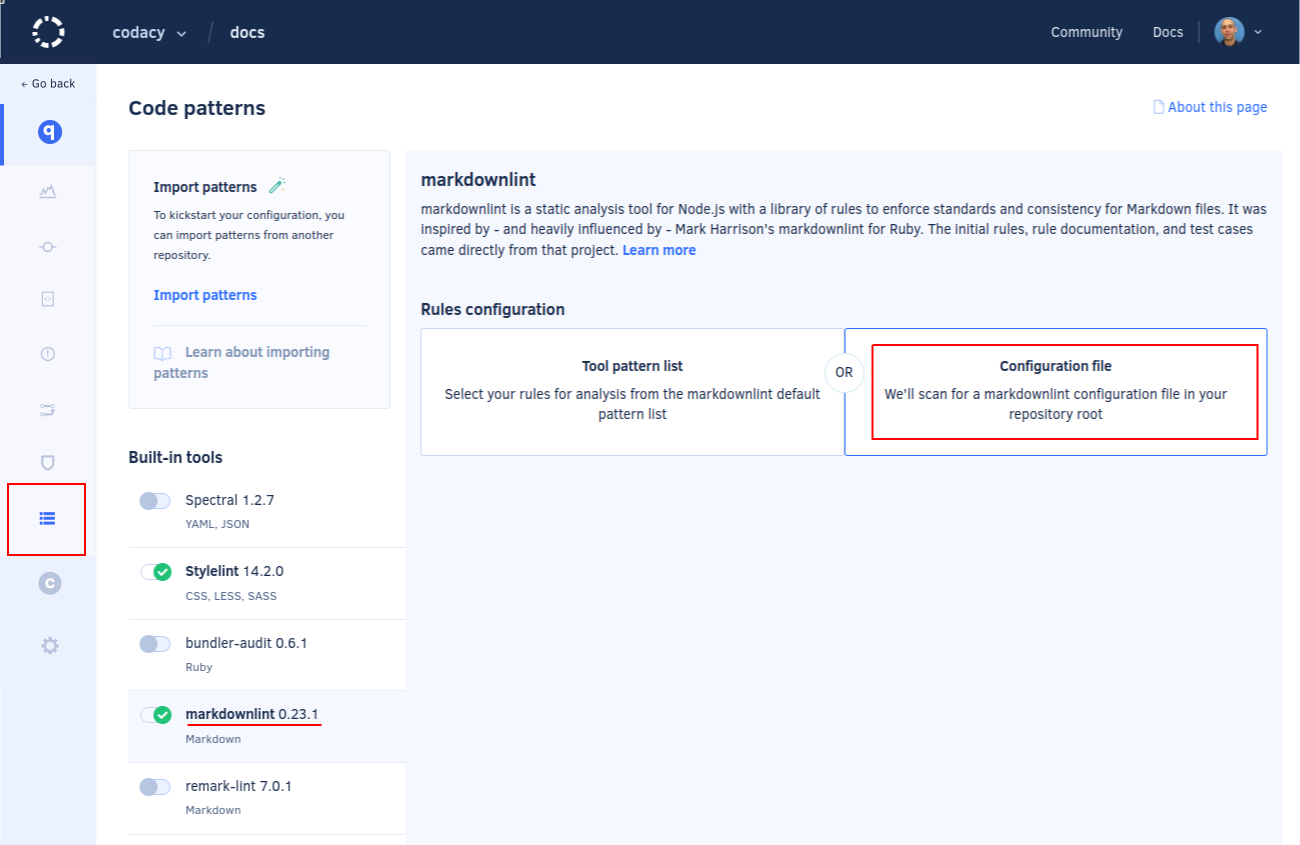
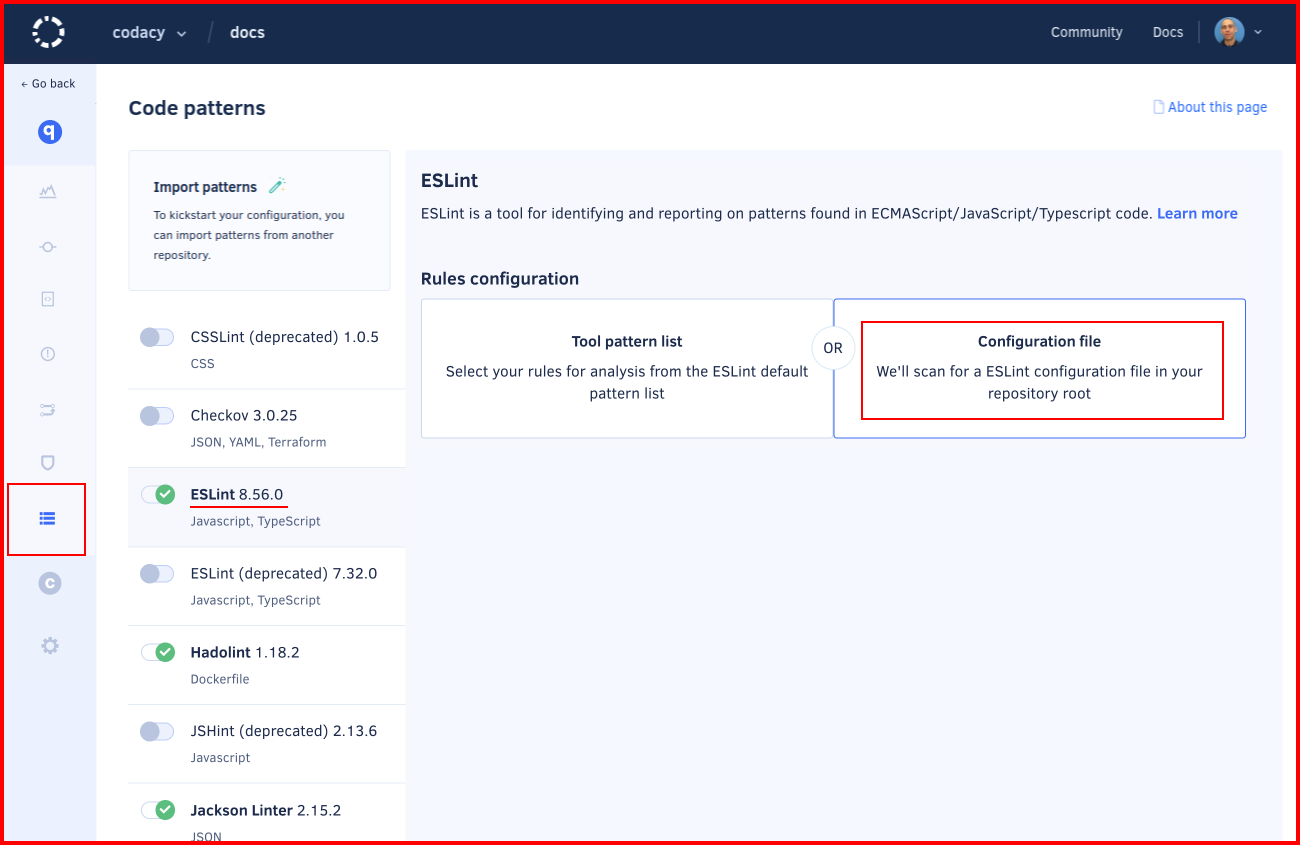
feat: Remove import patterns from repo

Changed region(s): [[0.0, 0.0, 1.0, 1.0], [0.0923, 0.3385, 0.2769, 0.4615]]

diff --git a/docs/repositories-configure/configuring-code-patterns.md b/docs/repositories-configure/configuring-code-patterns.md
@@ -6,10 +6,9 @@ description: Configure the static analysis tools and code patterns that Codacy u
 
 {% include-markdown "../assets/includes/admin-access-control-info.md" %}
 
-By default, Codacy analyzes your repositories using a subset of the supported analysis tools and code patterns. These defaults are based on current best practices and community feedback, and you can adapt them to your needs in several ways:
+By default, Codacy analyzes your repositories using a subset of the supported analysis tools and code patterns. These defaults are based on current best practices and community feedback, and you can adapt them to your needs as follows:
 
 -   [Configuring tools and code patterns using the Codacy UI](#configuring-tools-and-code-patterns-using-the-codacy-ui)
--   [Importing configurations from another repository](#import-patterns)
 -   [Using tool configuration files](#using-your-own-tool-configuration-files)
 
 ## Configuring tools and code patterns using the Codacy UI
@@ -21,7 +20,7 @@ To configure the tools and code patterns for a repository using the Codacy UI:
 
 1.  Open your repository **Code patterns** page.
 
-    ![Code patterns page](images/code-patterns.png)
+    ![Code patterns page](images/code-patterns.png)<!-- TODO ALA-904 Confirm screenshot matches updates -->
 
 1.  Enable or disable the tools that Codacy will use to analyze the repository.
 
@@ -39,41 +38,6 @@ To configure the tools and code patterns for a repository using the Codacy UI:
     ![Configuring code patterns](images/code-patterns-configure.png)
 
 1.  Optionally, to take the changes into account immediately, [reanalyze the repository manually](../faq/repositories/how-do-i-reanalyze-my-repository.md). Otherwise, Codacy will use the updated configuration when analyzing new commits and pull requests.
-
-## Importing pattern configurations from another repository {: id="import-patterns"}
-
-Importing tool and code pattern configurations from another repository can help you bootstrap and standardize the tool and code pattern configurations across your repositories.
-
-For example, when adding a new repository on Codacy you can copy the tool and code pattern configurations from an existing repository that's already configured, and then tweak and adapt the settings for your new repository.
-
-!!! tip
-    To ensure that multiple repositories consistently follow the same global tool and code pattern configurations, [use an organization coding standard](../organizations/using-coding-standards.md) instead.
-
-<!-- TODO ALA-904 Check that this still applies -->
-!!! important
-    Consider the following when using this feature:
-
-    -   **Tool matching:** Codacy only copies settings for tools that are available on both the source and target repositories, and overwrites the existing settings for these tools on the target repository.
-    -   **Toggle status:** Codacy copies the enabled or disabled status of the matching tools from the source to the target repository.
-    -   **Configuration files:** Codacy copies the UI configuration of all matching tools, even those set to use configuration files. However, the import doesn't include the configuration mode itself and doesn't copy configuration files across repositories.
-
-    The following example illustrates the points above:
-
-    | Source repository | Target repository | Target repository after import |
-    |-------------------|-------------------|--------------------------------|
-    | ![Source repository](images/code-patterns-import-example-source.svg) | ![Target repository](images/code-patterns-import-example-target.svg) | ![Target repository after import](images/code-patterns-import-example-final.svg) |
-
-To import the tool and code pattern configurations from another repository:
-
-1.  Open your repository **Code patterns** and click **Import patterns**.
-
-    ![Importing code patterns from another repository](images/code-patterns-import.png)
-
-1.  Follow the instructions to select the source repository and complete the import.
-
-1.  Review and adjust your tool and code pattern configurations if necessary.
-
-Codacy will use the updated configurations on the next analysis.
 
 ## Using tool configuration files {: id="using-your-own-tool-configuration-files"}
 
@@ -105,7 +69,7 @@ To use a configuration file for a static analysis tool:
 
         -   For performance reasons, when you update pattern settings using a configuration file, Codacy may display outdated messages for issues identified previously by those patterns.
 
-    ![Using a configuration file](images/code-patterns-config-file.png)
+    ![Using a configuration file](images/code-patterns-config-file.png)<!-- TODO ALA-904 Confirm screenshot matches updates -->
 
 The table below lists the configuration file names that Codacy detects and supports for each tool:
 

diff --git a/docs/getting-started/configuring-your-repository.md b/docs/getting-started/configuring-your-repository.md
@@ -30,7 +30,7 @@ To configure your repository, follow these steps:
 !!! tip
     To ensure that multiple repositories consistently follow the same global tool and code pattern configurations, [use an organization coding standard](../organizations/using-coding-standards.md).
 
-![Configuring the tools and code patterns](../repositories-configure/images/code-patterns.png)
+![Configuring the tools and code patterns](../repositories-configure/images/code-patterns.png)<!-- TODO ALA-904 Confirm screenshot matches updates -->
 
 ## 3. Adding coverage to your repository (optional) {: id="adding-coverage"}
 

diff --git a/docs/organizations/using-coding-standards.md b/docs/organizations/using-coding-standards.md
@@ -110,6 +110,5 @@ To delete a coding standard:
 
 ## See also
 
--   [Importing pattern configurations from another repository](../repositories-configure/configuring-code-patterns.md#import-patterns)
 -   [Configuring code patterns on each repository](../repositories-configure/configuring-code-patterns.md)
 -   [How to implement Google JavaScript style guide with Codacy](https://blog.codacy.com/implement-google-javascript-style-guide-with-codacy/)
